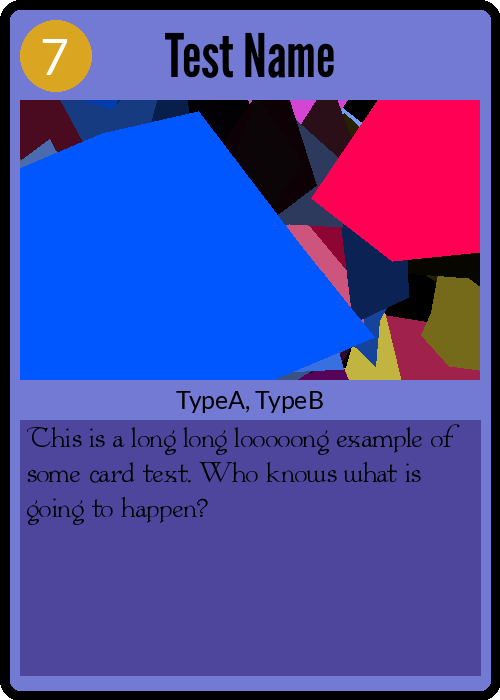
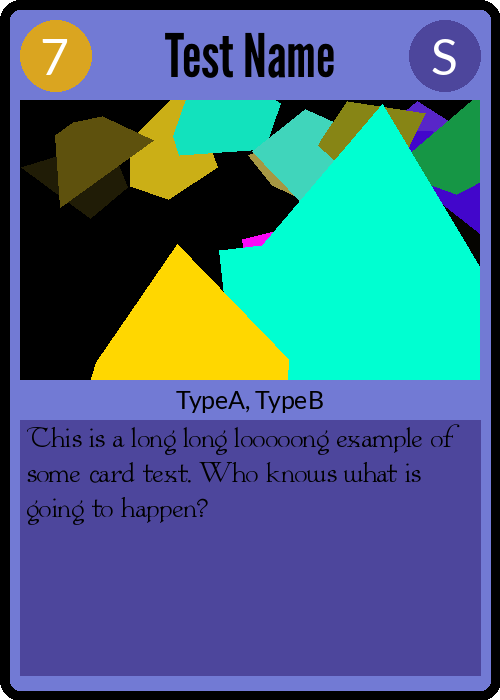
remove flavor text

diff --git a/generate_cards.py b/generate_cards.py
@@ -54,6 +54,10 @@ GOLD = (218,165,32)
 BEIGE = (224, 201, 166)
 DARK_BEIGE = (163, 146, 119)
 
+def get_bb_center(bb:Tuple[int, int, int, int])->Tuple[int, int]:
+  assert len(bb) == 4
+  x1, y1, x2, y2 = bb
+  return int((x1+x2)/2), int((y1+y2)/2)
 
 # Background parameters
 SPELL_BACKGROUND_COLOR = LIGHT_BLUE
@@ -79,8 +83,7 @@ COST_BACKGROUND_BB = [
 COST_BACKGROUND_COLOR = GOLD
 COST_FONT = ImageFont.truetype(str(LATO_FONT_PATH), 50)
 COST_ANCHOR = "mm"  # Middle
-COST_COORD = (int(CARD_MARGIN + COST_WIDTH / 2),
-              int(CARD_MARGIN + COST_WIDTH / 2))
+COST_COORD = get_bb_center(COST_BACKGROUND_BB)
 COST_FONT_COLOR = WHITE
 
 # Card Type Icon
@@ -90,15 +93,13 @@ CARD_TYPE_ICON_BACKGROUND_BB =[
   CARD_MARGIN,
   CARD_WIDTH-CARD_MARGIN,
   CARD_TYPE_ICON_WIDTH + CARD_MARGIN]
+CARD_TYPE_ICON_FONT = ImageFont.truetype(str(LATO_FONT_PATH), 50)
+CARD_TYPE_ICON_ANCHOR= "mm"  # Middle
+CARD_TYPE_ICON_COORD = get_bb_center(CARD_TYPE_ICON_BACKGROUND_BB)
+CARD_TYPE_ICON_FONT_COLOR = WHITE
 CARD_TYPE_ICON_BACKGROUND_COLOR_SPELL = DARK_BLUE
 CARD_TYPE_ICON_BACKGROUND_COLOR_HOLDING= DARK_BEIGE
 CARD_TYPE_ICON_BACKGROUND_COLOR_UNIT = DARK_RED
-CARD_TYPE_ICON_FONT = ImageFont.truetype(str(LATO_FONT_PATH), 50)
-CARD_TYPE_ICON_ACHOR = "mm"  # Middle
-CARD_TYPE_ICON_COORD = (
-  int(CARD_TYPE_ICON_BACKGROUND_BB[2]+CARD_TYPE_ICON_BACKGROUND_BB[0]/2)
-  int(CARD_TYPE_ICON_BACKGROUND_BB[3]+CARD_TYPE_ICON_BACKGROUND_BB[1]/2))
-CARD_TYPE_ICON_FONT_COLOR = WHITE
 
 
 # Describes the max width of card contents
@@ -183,11 +184,9 @@ class CardDesc:
   cost: int
   attributes: List[str]
   body_text: str
-  flavor_text: str
 
   def hash(self):
-    text = (f"{self.title}{self.cost}{self.attributes}{self.body_text}"
-            f"{self.flavor_text}")
+    text = f"{self.title}{self.cost}{self.attributes}{self.body_text}"
     return hashlib.md5(text.encode("utf-8")).hexdigest()
 
 
@@ -197,7 +196,6 @@ EXPECTED_CSV_HEADER = set([
   "Cost",
   "Attributes",
   "Body Text",
-  "Flavor Text",
 ])
 
 def get_background_color(desc:CardDesc):
@@ -349,7 +347,7 @@ def generate_card(desc:CardDesc, output_path:pathlib.Path):
   )
   draw.text(
     CARD_TYPE_ICON_COORD,
-    str(desc.card_type)[0],
+    str(desc.card_type.value)[0],
     CARD_TYPE_ICON_FONT_COLOR,
     font=CARD_TYPE_ICON_FONT,
     anchor=CARD_TYPE_ICON_ANCHOR)
@@ -395,7 +393,6 @@ def to_card_desc(attr:Dict[str, Any]):
     cost=int(attr["Cost"]),
     attributes=list(attr["Attributes"].split(",")),
     body_text=attr["Body Text"],
-    flavor_text=attr["Flavor Text"],
   )
 
 if __name__ == "__main__":
